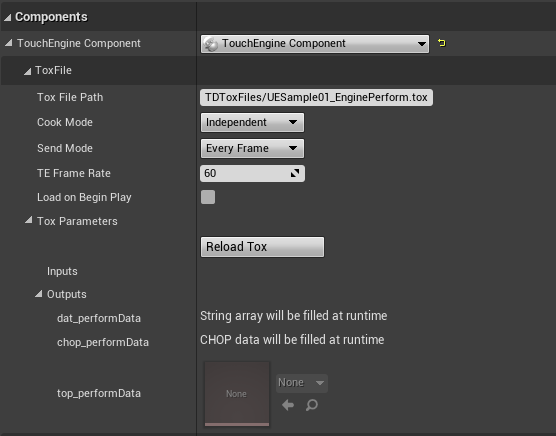
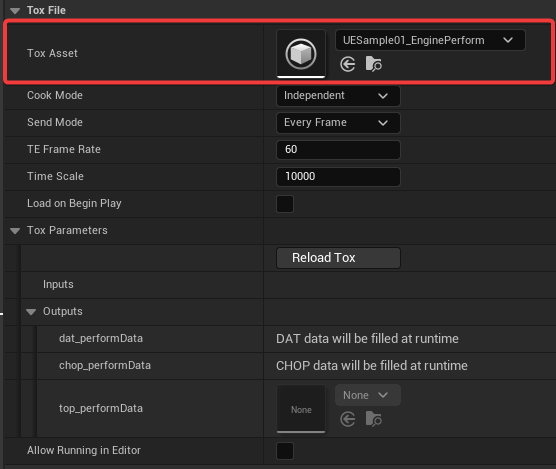
Readme tweaks for samples, reflecting a few changes of v1.1.0

diff --git a/Content/README.md b/Content/README.md
@@ -6,9 +6,12 @@ All .tox files can be found in `Content\TDToxFiles` from the root folder of this
 
 When cloning the repository and opening the project for the first time, pay attention to the World Outliner on the right. The World Outliner is carefully organized and objects are named so that you can easily connect the dots between .tox file and blueprints. In the following documentation, only the first sample will have its blueprint extensively documented, the following examples will cover specific bits that are specific to the example covered in that section.
 
+**Note**: As of version 1.1.0, the plugin changed how .tox files are added to a TouchEngine Component. They are now loaded from a ToxAsset. The ToxAsset workflow allows for simple drag n drop of various ToxAssets and fast swapping of iterations while working in Unreal. The path to the .tox can be seen when double clicking a ToxAsset. Scroll down for screenshots or see `01_EnginePerform_04.png`.
+
 ## 01 EnginePerform
 
 Tox path and name: `Content\TDToxFiles\UESample01_EnginePerform.tox`
+As of v1.1.0: Matching .uasset (ToxAsset) in Content/TouchEngineSamples/ToxAssets
 
 This example is showcasing how to load a TouchEngine Component. The second part of the example is using the same base .tox file and loading in different sync modes.
 
@@ -18,13 +21,13 @@ It is also helpful to see how the TouchEngine is running in its own thread as it
 
 ### Parameters, inputs, outputs
 
-#### Parameters
+#### **Parameters**
 None
 
-#### Inputs
+#### **Inputs**
 None
 
-#### Outputs
+#### **Outputs**
 - top_performData
 - dat_performData
 - chop_performData
@@ -66,9 +69,13 @@ The second part of this example showcases Cook Modes. The same object is used an
 
 Notice the property `Send Mode` on the TouchEngine Component. There are 2 send modes, Every Frame and On Access. Every Frame sets and gets outputs every frame, while on access only sends them when the variable types are accessed via the blueprint nodes.
 
+### Variations
+- UESample01_EnginePerformPar.tox: Nothing is changing much here, when swapping the matching .uasset, you should now have a parameter exposed in the detail panel. That parameter when updated changes the background color of the incoming texture.
+
 ## 02 SimpleTexture
 
 Tox path and name: `Content\TDToxFiles\UESample02_SimpleTexture.tox`
+As of v1.1.0: Matching .uasset (ToxAsset) in Content/TouchEngineSamples/ToxAssets
 
 This simple example showcases how to stream a texture from TouchEngine and apply it in an Unreal Engine material. A similar approach is showcased in the previous example EnginePerform where we are applying the text.
 
@@ -76,18 +83,18 @@ This simple example showcases how to stream a texture from TouchEngine and apply
 
 ### Parameters, inputs, outputs
 
-#### Parameters
+#### **Parameters**
 - Name
 
-#### Inputs
+#### **Inputs**
 - chop_rgbBrightness
 - top_textureIn
 
-In this example, the first input chop_rgbBrightness is not used. It is here to showcase that a .tox can be loaded multiple times in different engines. You will see it also being used in the Simple RGB Light example.
+In this example, the first input chop_rgbBrightness is not used. It is here to showcase that a .tox can be loaded multiple times in different engines. You will see this same .tox being used in the Simple RGB Light example.
 
 The second input can be used from within Unreal Engine to replace the jellybeans default texture by an Unreal Engine texture. It will then be displaced like in the default TouchDesigner project.
 
-#### Outputs
+#### **Outputs**
 - chop_rgbOut - RGB channels following a sinewave. They can be "dimmed" using the chop_rgbBrightness input. They are not used in this example (see previous section for details).
 - top_textureOut - The displaced default jellybeans texture or an Unreal Engine texture assigned by the user.
 
@@ -98,7 +105,19 @@ Self explanatory. See comments of previous sections.
 
 This example is getting a texture out of the TouchEngine and applying it to a cube, using the nodes Get TouchEngine Output (to get the TOP out of the TouchEngine) and Set Texture Parameter Value to set the texture on the cube.
 
-The main difference here is that you can also pass a texture from Unreal Engine to TouchEngine, using Set TouchEngine Input. Any texture passed using this node will be used just like a standard TOP input on a Component in TouchEngine.
+The following screenshot showcase the Event Graph of Sample 02. 
+
+![BP](ReadmePictures/02_SimpleTexture_03.png?raw=true "SimpleTexture Getting TOP output from TouchEngine in Unreal BP.")
+
+We can see how, using the Get TouchEngine Output node, we can retrieve a TOP output from a running TouchEngine by providing a valid TouchEngine Component as an input of the Get TouchEngine Output node.
+
+This texture can now be used in our graph. 
+
+In this specific sample, the texture once retrieved, now an Unreal Texture2D, is passed to the builtin Unreal method Set Texture Parameter Value, which in turn use additional builtin Unreal methods to set the texture on a Dynamic Material Instance.
+
+![BP](ReadmePictures/02_SimpleTexture_04.png?raw=true "TouchEngineInput Dynamic Material graph in Unreal, receiving the Texture previously retrieved from TouchEngine.")
+
+The main difference here, from the previous sample 01, is that you can also pass a texture from Unreal Engine to TouchEngine, using Set TouchEngine Input. Any texture passed using this node will be used just like a standard TOP input on a Component in TouchEngine.
 
 You can do anything you wish with it from within the TouchEngine process / .tox file, and output it again back to Unreal Engine.
 
@@ -110,15 +129,22 @@ When importing textures (assets) in Unreal Engine, there is high chances that th
 
 Accessing a TouchEngine Component TOP output should always work and be converted to the appropriate texture type in the Unreal blueprint.
 
+**Note**: As of version 1.1.0 of the plugin, you should have better feedback regarding texture type incompatibilities. Support was improved and another pass is planned.
+
+### Variations
+- UESample02_SimpleTexture16BitFRBG.tox: This sample is identical to the original, the only difference is that the final texture is in a different texture format, 16-bit float RGB, rather than the 8-bit fixed RGBA of the default file.
+- UESample02_SimpleTexturePassThru: This .tox works with the same blueprint used for the original UESample02 file. It however doesn't displace the texture being sent in and just act as a pass through.
+
 ## 03 Parameters
 
 Tox path and name: `Content\TDToxFiles\UESample03_Parameters.tox`
+As of v1.1.0: Matching .uasset (ToxAsset) in Content/TouchEngineSamples/ToxAssets
 
 This example showcases how to get or set all parameter types of TouchDesigner / TouchEngine within an Unreal Engine blueprint. There is no specific interactivity available here, but we advise users to focus on the blueprint file to understand the process behind each parameter get / set. Additionally, it covers all input / output types, but they are only passthrough without particular data processing.
 
 ### Parameters, inputs, outputs
 
-#### Parameters
+#### **Parameters**
 - Filepath
 - Folderpath
 - Header
@@ -137,12 +163,12 @@ This example showcases how to get or set all parameter types of TouchDesigner / 
 - Momentary
 - Threeints
 
-#### Inputs
+#### **Inputs**
 - chop_in1
 - dat_in1
 - top_in1
 
-#### Outputs
+#### **Outputs**
 - chop_out1
 - dat_out1
 - top_out1
@@ -160,6 +186,7 @@ From the World Outliner, click on edit blueprint to access to the blueprint. It 
 ## 04 SimpleBlendCubeTexture
 
 Tox path and name: `Content\TDToxFiles\UESample04_SimpleBlendCubeTexture.tox`
+As of v1.1.0: Matching .uasset (ToxAsset) in Content/TouchEngineSamples/ToxAssets
 
 This example showcases the use of multiple TOP inputs and some simple TOP compositing between a TOP A and a TOP B. Use the Blend parameter to modify the blend factor.
 
@@ -167,14 +194,14 @@ This example showcases the use of multiple TOP inputs and some simple TOP compos
 
 ### Parameters, inputs, outputs
 
-#### Parameters
+#### **Parameters**
 - Blend (Float Par)
 
-#### Inputs
+#### **Inputs**
  - top_texA - by default uses the TouchDesigner banana image. You can assign a texture in Unreal Engine after loading the .tox file. Texture can only be of an Unreal-friendly compression type. More details below.
  - top_texB - by default uses the TouchDesigner cubemap / UV grid image. You can assign a texture in Unreal Engine after loading the .tox file. Texture can only be of an Unreal-friendly compression type. More details below.
 
-#### Outputs
+#### **Outputs**
 - top_blendedTexture - the result of the blend
 
 ### .tox file
@@ -187,9 +214,13 @@ This example showcases Unreal Engine nodes that you are already familiar with by
 ![TOX](ReadmePictures/04_SimpleBlendCubeTexture_02.png?raw=true "SimpleBlendCubeTexture Slider button left and right arrow interaction and setting parameter in blueprint.")
 ![TOX](ReadmePictures/04_SimpleBlendCubeTexture_02bis_UpdateBlendValue.png?raw=true "SimpleBlendCubeTexture Slider button left and right arrow interaction and setting parameter in blueprint.")
 
+### Variations
+- UESample04_SimpleBlendCubeTextureWFit.tox: A Fit TOP is used internally to make sure that they are no changes in resolution when the Blend value is 1.0 if it happened that both incoming textures had different resolutions. The final texture resolution will always be of the size of the texture being set for top_texA.
+
 ## 05 SingleSampleChannels
 
 Tox path and name: `Content\TDToxFiles\UESample05_SingleSampleChannels.tox`
+As of v1.1.0: Matching .uasset (ToxAsset) in Content/TouchEngineSamples/ToxAssets
 
 This simple example showcases the use of multiple channels of CHOP data with one sample per channel.
 
@@ -197,13 +228,13 @@ This simple example showcases the use of multiple channels of CHOP data with one
 
 ### Parameters, inputs, outputs
 
-#### Parameters
+#### **Parameters**
 None
 
-#### Inputs
+#### **Inputs**
 None
 
-#### Outputs
+#### **Outputs**
 - chop_singleSampleChannels
 
 One single CHOP output, of 1024 channels of 1 sample each.
@@ -222,6 +253,7 @@ Lastly, the gathered data is being passed to BP_OrbiterCubes and its Set Satelli
 ## 06 PulseGenerateRandomPositions
 
 Tox path and name: `Content\TDToxFiles\UESample06_PulseGenerateRandomPositions.tox`
+As of v1.1.0: Matching .uasset (ToxAsset) in Content/TouchEngineSamples/ToxAssets
 
 This example showcases the use of multiple channels of CHOP data with 100 samples per channel. The channels being outputted are tx, ty, tz. Using the Generate pulse parameter will generate a new data set. The change between data sets pre / post pulse is smoothed over 1 second with a filter CHOP.
 
@@ -229,13 +261,13 @@ This example showcases the use of multiple channels of CHOP data with 100 sample
 
 ### Parameters, inputs, outputs
 
-#### Parameters
+#### **Parameters**
 - Generate (Pulse Par)
 
-#### Inputs
+#### **Inputs**
 None
 
-#### Outputs
+#### **Outputs**
 - chop_randomPositions
 
 One single CHOP output, of 3 channels of 100 samples each.
@@ -253,7 +285,7 @@ A CHOP object is returned from Get TouchEngine Output. This CHOP object is passe
 
 ![TOX](ReadmePictures/06_PulseGenerateRandomPositions_03.png?raw=true "PulseGenerateRandomPositions set Pulse Par from Unreal Engine blueprint.")
 
-In the following screenshot you can see that the Get Channel function can be used to retrieve a specific channel by its index.
+In the following screenshot, implementation of the Fill Pos Array function just mentioned previously, you can see that the Get Channel function can be used to retrieve a specific channel by its index.
 
 ![TOX](ReadmePictures/06_PulseGenerateRandomPositions_04.png?raw=true "PulseGenerateRandomPositions set Pulse Par from Unreal Engine blueprint.")
 
@@ -261,6 +293,7 @@ In the following screenshot you can see that the Get Channel function can be use
 ## 07 PulseGenerateRandomPath
 
 Tox path and name: `Content\TDToxFiles\UESample07_PulseGenerateRandomPath.tox`
+As of v1.1.0: Matching .uasset (ToxAsset) in Content/TouchEngineSamples/ToxAssets
 
 This example showcases the use of multiple channels of CHOP data with X samples per channel. X being the value set with the Resolution parameter. The channels output are tx, ty, tz. Using the Generate pulse parameter will generate a new data set. The change between data sets pre / post pulse is smoothed over 1 second with a filter CHOP.
 
@@ -268,14 +301,14 @@ This example showcases the use of multiple channels of CHOP data with X samples 
 
 ### Parameters, inputs, outputs
 
-#### Parameters
+#### **Parameters**
 - Resolution (Int Par)
 - Generate (Pulse Par)
 
-#### Inputs
+#### **Inputs**
 None
 
-#### Outputs
+#### **Outputs**
 - chop_pathData
 - chop_currentPathPosition
 
@@ -291,18 +324,19 @@ Similar to the two previous examples.
 ## 02 SimpleTexture - RGB Light
 
 Tox path and name: `Content\TDToxFiles\UESample02_SimpleTexture.tox`
+As of v1.1.0: Matching .uasset (ToxAsset) in Content/TouchEngineSamples/ToxAssets
 
 This simple example showcases how multiple engines can load the same .tox file for different purposes or end results as this .tox file was also loaded in “Example 02 Simple Texture” above. Here the user can drive the brightness of a light using the engine input `chop_rgbBrightness`. The output `chop_rgbOut` with 3 channels (R, G, B) of 1 sample each is being used to drive the light color output.
 
 ### Parameters, inputs, outputs
 
-#### Parameters
+#### **Parameters**
 See 02 SimpleTexture section.
 
-#### Inputs
+#### **Inputs**
 See 02 SimpleTexture section.
 
-#### Outputs
+#### **Outputs**
 See 02 SimpleTexture section.
 
 ### .tox file
@@ -317,6 +351,7 @@ This example showcase how to access a CHOP channel by its name using Get Channel
 ## 08 SpringData
 
 Tox path and name: `Content\TDToxFiles\UESample08_SpringData.tox`
+As of v1.1.0: Matching .uasset (ToxAsset) in Content/TouchEngineSamples/ToxAssets
 
 This CHOP data example is based on one of the Spring CHOP snippets available from within TouchDesigner. A trigger (Spring Trigger - Pulse Par) and various parameters related to the Spring CHOP are exposed at the top level. Additionally, an input CHOP can also be used to trigger the spring / rebound effect.
 
@@ -324,15 +359,15 @@ This CHOP data example is based on one of the Spring CHOP snippets available fro
 
 ### Parameters, inputs, outputs
 
-#### Parameters
+#### **Parameters**
 See [Derivative.ca wiki documentation](https://docs.derivative.ca/Spring_CHOP).
 
 At runtime and in realtime, the user can update the parameters to have an impact on the system. 
 
-#### Inputs
+#### **Inputs**
 - input_chopSpringTrigger - this input is bound to the right red button in the example project. Shooting  that button will pass a value going from 0 to 1 as CHOP data.
 
-#### Outputs
+#### **Outputs**
 - chop_springTriggerValue - being used to drive the position of a sphere vertically.
 
 ### .tox file
@@ -347,6 +382,7 @@ Similar to the Pulse button, this example is using one button where CHOP data is
 ## 09 PointGenerator
 
 Tox path and name: `Content\TDToxFiles\UESample09_PointGenerator.tox`
+As of v1.1.0: Matching .uasset (ToxAsset) in Content/TouchEngineSamples/ToxAssets
 
 This more advanced example showcases the use of the Palette's pointGenerator to generate positions for X points where X is the value set using the Num Points parameter. For details about the pointGenerator, see the following [page](https://docs.derivative.ca/Palette:pointGenerator).
 
@@ -354,15 +390,15 @@ This more advanced example showcases the use of the Palette's pointGenerator to 
 
 ### Parameters, inputs, outputs
 
-#### Parameters
+#### **Parameters**
 See [Derivative.ca wiki documentation](https://docs.derivative.ca/Palette:pointGenerator).
 
 At runtime and in real-time, the user can update the parameters to have an impact on the system.
 
-#### Inputs
+#### **Inputs**
 None
 
-#### Outputs
+#### **Outputs**
 - top_pointData - the data generated from the pointGenerator as a TOP texture, where RGB = T[XYZ]
 - chop_pointData - the same data as top_pointData but in CHOP format.
 
@@ -382,6 +418,7 @@ Currently, the approach is similar to example 07. The difference is in the amoun
 ## 10 SimpleScoring
 
 Tox path and name: `Content\TDToxFiles\UESample10_SimpleScoring.tox`
+As of v1.1.0: Matching .uasset (ToxAsset) in Content/TouchEngineSamples/ToxAssets
 
 This advanced example uses DATs and TouchDesigner’s Python engine. While one could argue that there are tools for a scoring system in Unreal Engine, this is an example of using DATs and Python to create logic systems in TouchDesigner that can be used directly in Unreal Engine.
 
@@ -389,7 +426,7 @@ This advanced example uses DATs and TouchDesigner’s Python engine. While one c
 
 ### Parameters, inputs, outputs
 
-#### Parameters
+#### **Parameters**
  - Players (Str Par) - a space delimited list of players
  - Index to update (Int Par) - used to specify which  player in the space delimited list of players from the Player Par should be updated
  - Operator (Menu Par) - the operation to execute on the player set with Index to update
@@ -397,10 +434,10 @@ This advanced example uses DATs and TouchDesigner’s Python engine. While one c
  - Send (Pulse Par) - execute operation
  - Reset (Pulse Par) - reset all players scores to 0
 
-#### Inputs
+#### **Inputs**
 None
 
-#### Outputs
+#### **Outputs**
 - dat_sortedDescScore - simple leaderboard in DAT format
 - chop_sortedDescScore - a CHOP of X channels of 1 sample where X is the number of players, and the channel name is the name of the player. The sample is the current number of points of the player.
 
@@ -429,6 +466,7 @@ Using the DAT object, Set Score Text blueprint is looping over rows and columns 
 <!-- ## 00 TEMPLATE NAME
 
 Tox path and name: `PATH TO TOX`
+As of v1.1.0: Matching .uasset (ToxAsset) in Content/TouchEngineSamples/ToxAssets
 
 This simple example showcase... 
 
@@ -436,13 +474,13 @@ This simple example showcase...
 
 ### Parameters, inputs, outputs
 
-#### Parameters
+#### **Parameters**
 - Name
 
-#### Inputs
+#### **Inputs**
 None
 
-#### Outputs
+#### **Outputs**
 - type_name
 
 TODO: To be completed
